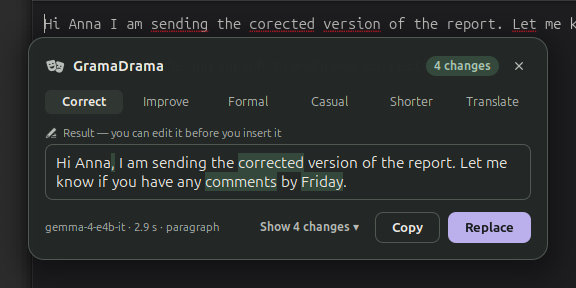
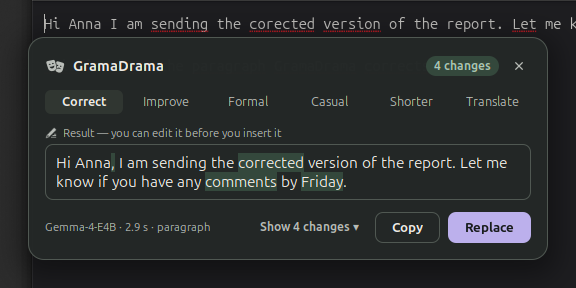
Docs: the panel pictures name the model as the engine shows it

Changed region(s): [[0.0625, 0.75, 0.375, 0.8125]]

diff --git a/linux/tests/integration_panel.py b/linux/tests/integration_panel.py
@@ -77,7 +77,7 @@ TR_TEXT = ("Thank you for the quick reply. Let's meet on Thursday at 10:00 to di
            "the rollout schedule. I'll send a short agenda beforehand, and a summary of what we agree on to the "
            "whole team afterwards, so nobody has to guess.")
 # The docs are English, so is the panel in their pictures (--docs): the view the engine sends with an English
-# interface, the model of integration_app.py's docs pictures.
+# interface; the model of integration_app.py's docs pictures (DOCS_MODEL) as core.display_name shows it.
 EN_SRC = 'Hi Anna I am sending the corected version of the report. Let me know if you have any coments by friday.'
 EN_FIXED = 'Hi Anna, I am sending the corrected version of the report. Let me know if you have any comments by Friday.'
 EN_SEGMENTS = [['same', 'Hi Anna'], ['added', ','], ['same', ' I am sending the '], ['removed', 'corected'],
@@ -88,7 +88,7 @@ EN_CHANGES = [{'from': '', 'to': ',', 'reason': 'Missing punctuation'},
               {'from': 'corected', 'to': 'corrected', 'reason': 'Typo'},
               {'from': 'coments', 'to': 'comments', 'reason': 'Typo'},
               {'from': 'friday', 'to': 'Friday', 'reason': 'Capitalization'}]
-EN_MODEL = 'gemma-4-e4b-it'
+EN_MODEL = 'Gemma-4-E4B'
 PRIVATE = ('Pole hasła lub prywatne — GramaDrama go nie czyta.', 'Password or private field — GramaDrama does not read it.')
 TRICKY = '<b>pogrubienie</b> & <span foreground="red">„cytat”</span> \\n'  # must show literally
 
